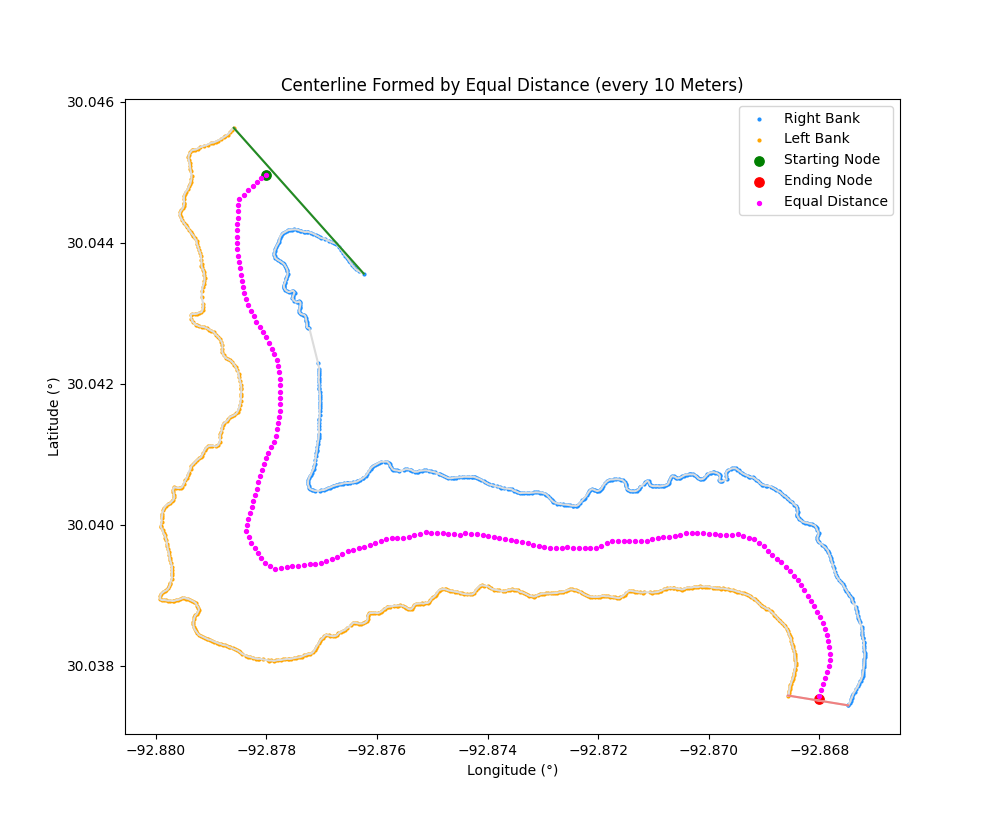
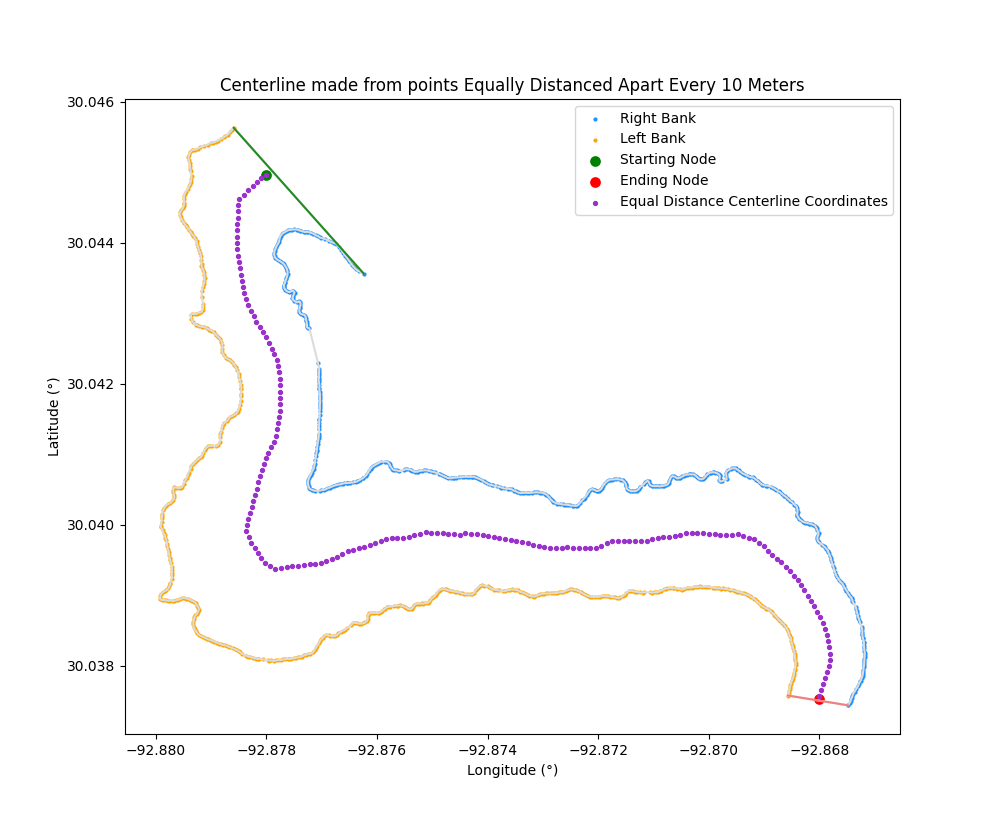
geopy and pyproj for equal distance measurments

diff --git a/centerline_width/plotDiagrams.py b/centerline_width/plotDiagrams.py
@@ -88,7 +88,7 @@ def plotCenterline(river_object=None,
 	for k, v in river_object.centerlineEqualDistance:
 			x.append(k)
 			y.append(v)
-	#plt.scatter(x, y, c="magenta", label="Equal Distance", s=8)
+	#plt.scatter(x, y, c="darkorchid", label="Equal Distance Centerline Coordinates", s=8)
 
 	# Plot Title, Legends, and Axis Labels
 	if not plot_title:

diff --git a/setup.py b/setup.py
@@ -38,12 +38,14 @@ setup(
 											'centerline_width.*']),
 	include_package_data=True,
 	install_requires=[
+		"geopy>=2.3.0",
 		"haversine>=2.8.0",
 		"matplotlib>=3.1.0",
 		"networkx>=3.0",
 		"numpy>=1.24.1",
 		"pandas>=1.3.5",
 		"pykml>=0.2.0",
+		"pyproj>=3.4.1",
 		"pytest>=7.2.2",
 		"scipy>=1.10.1",
 		"shapely>=2.0.1"

diff --git a/README.md b/README.md
@@ -20,6 +20,7 @@ Find the centerline and width of rivers based on the latitude and longitude posi
 	* saveCenterlineCSV()
 	* saveCenterlineMAT()
 	* centerlineVoronoi
+	* centerlineEqualDistance 
 	* centerlineEvenlySpaced
 	* centerlineSmoothed
 	* centerlineLength
@@ -226,7 +227,7 @@ There are four types of centerline coordinates formed from the riverbank data
 - **Voronoi centerline**: centerline generated from where Voronoi vertices intersect within the river
 ![example+png](https://raw.githubusercontent.com/cyschneck/centerline-width/main/data/doc_examples/voronoi_centerline.png)
 - **Equal Distance Centerline**: centerline based on Voronoi centerline but each point is equally spaced out from the previous (in meters)
-![example+png](https://raw.githubusercontent.com/cyschneck/centerline-width/main/data/doc_examples/evenly_spaced_centerline.png)
+![example+png](https://raw.githubusercontent.com/cyschneck/centerline-width/main/data/doc_examples/equal_distance_centerline.png)
 - **Evenly Spaced Centerline**: centerline based on Voronoi centerline but evenly spaced with a fixed number of points
 ![example+png](https://raw.githubusercontent.com/cyschneck/centerline-width/main/data/doc_examples/evenly_spaced_centerline.png)
 - **Smoothed Centerline**: centerline generated from the evenly spaced centerline but smoothed by a b-spline
